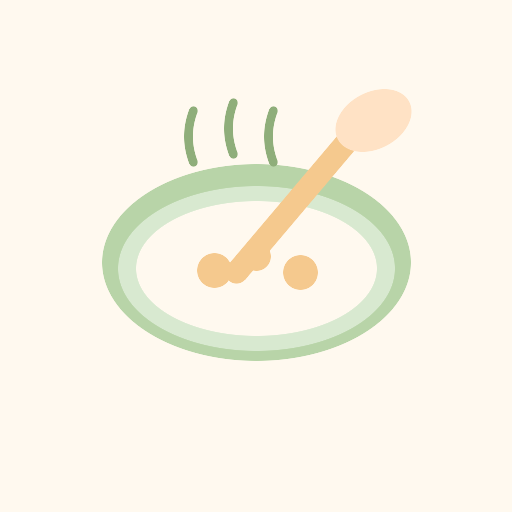
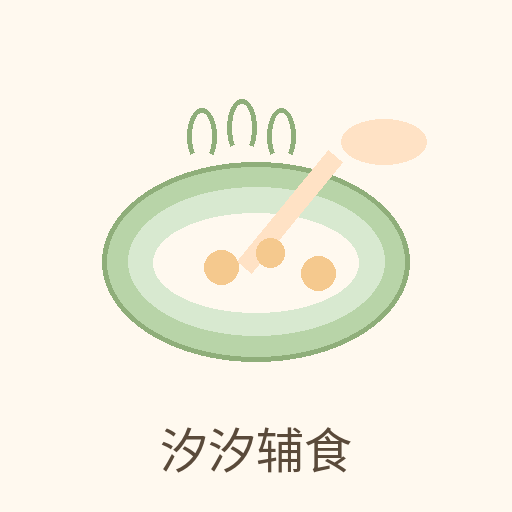
图标改用PIL绘制PNG：中文字体+豆绿碗+橙色勺+米白底

Changed region(s): [[0.1875, 0.1562, 0.8438, 0.7188], [0.3125, 0.8125, 0.6875, 0.9375]]

diff --git a/index.html b/index.html
@@ -8,7 +8,10 @@
 <meta name="apple-mobile-web-app-title" content="汐汐辅食日记">
 <meta name="mobile-web-app-capable" content="yes">
 <meta name="theme-color" content="#FFF9EF">
-<link rel="apple-touch-icon" href="/icons/icon-180.png">
+<link rel="apple-touch-icon" sizes="180x180" href="/icons/icon-180.png">
+<link rel="icon" type="image/png" sizes="192x192" href="/icons/icon-192.png">
+<link rel="icon" type="image/png" sizes="512x512" href="/icons/icon-512.png">
+<link rel="shortcut icon" href="/icons/icon-180.png">
 <link rel="manifest" href="/manifest.json">
 <script>if('serviceWorker' in navigator)navigator.serviceWorker.register('/sw.js');</script>
 <title>汐汐辅食日记</title>
